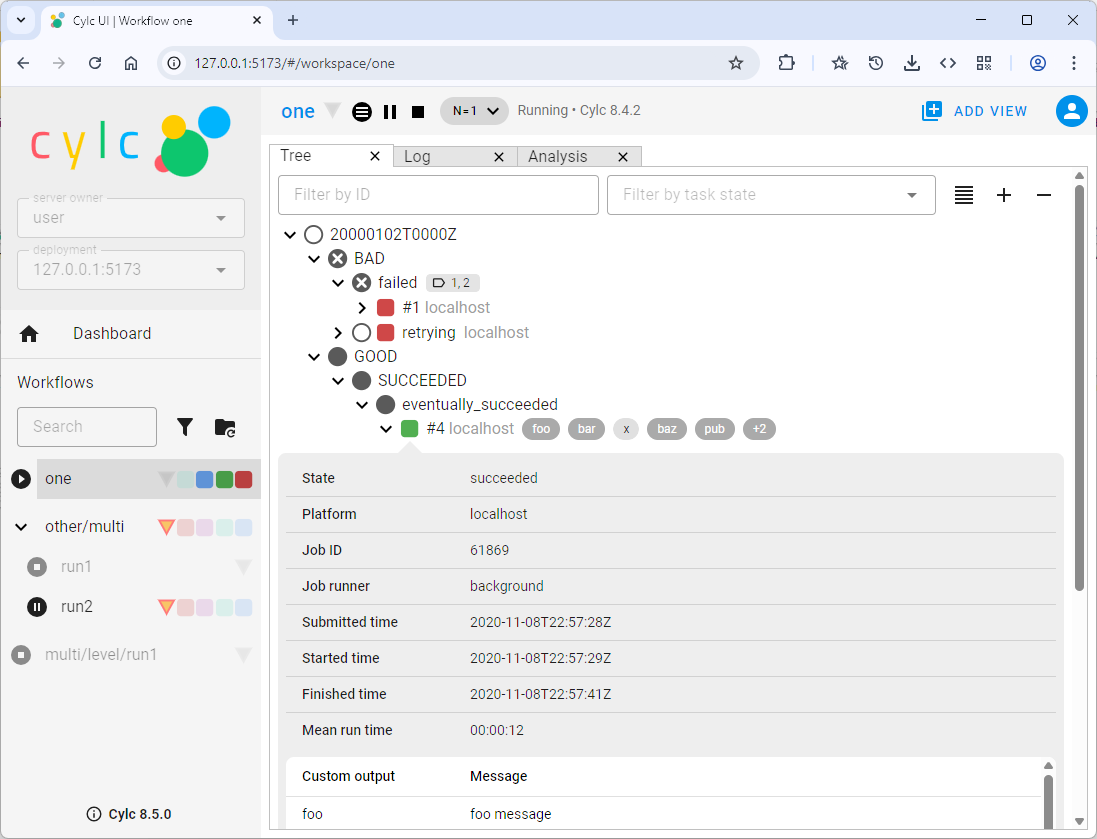
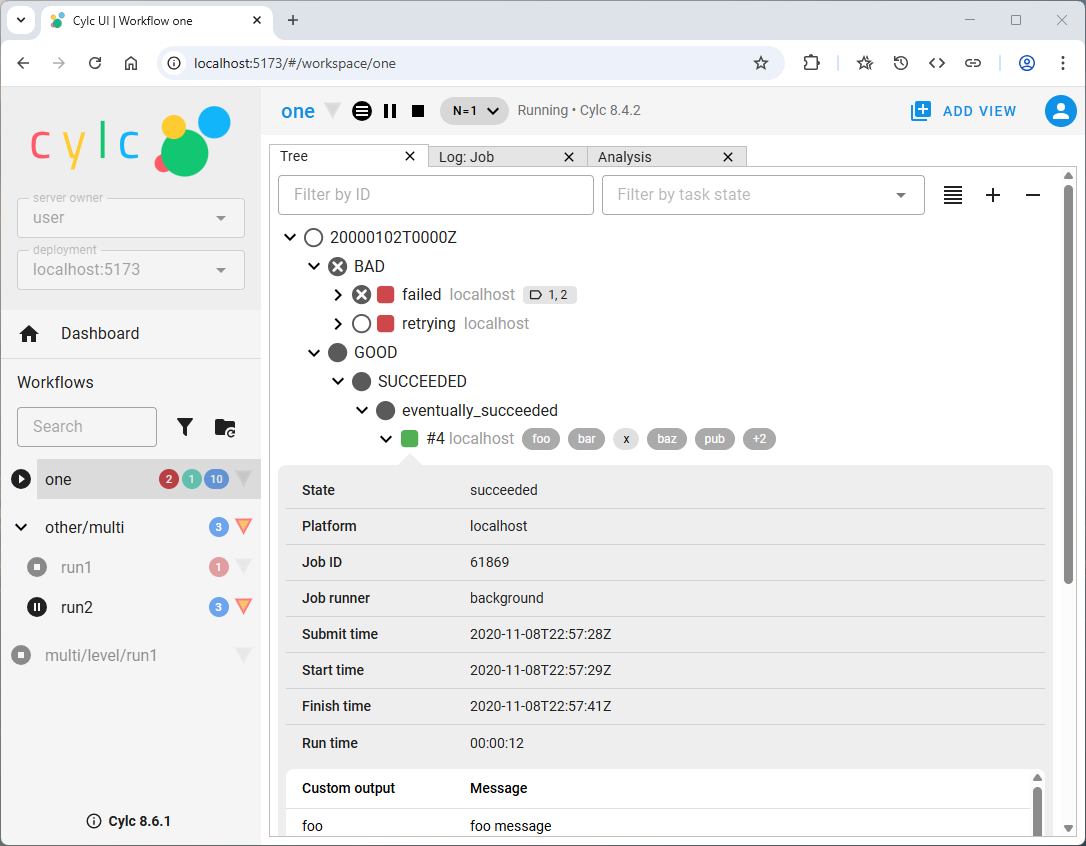
Add changes entry for UI sidebdar change; update screenshots

diff --git a/src/reference/changes.rst b/src/reference/changes.rst
@@ -37,6 +37,21 @@ Cylc 8.6
    :rose: `2.4 <https://github.com/metomi/rose/blob/master/CHANGES.md>`__
 
 
+UI sidebar improvements
+^^^^^^^^^^^^^^^^^^^^^^^
+
+.. versionadded:: cylc-uiserver 1.8.1
+
+The display of task states in the sidebar has been decluttered and numbers
+have been added to indicate how many tasks are in each state. The tooltips now
+have a short delay to avoid many popping up while moving the mouse around.
+
+.. image:: ../img/cylc-ui-dash.png
+   :width: 100%
+   :align: center
+
+|
+
 Task Matching
 ^^^^^^^^^^^^^
 
